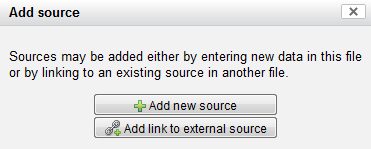
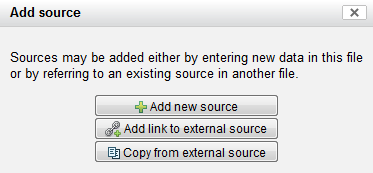
Added missing space between repository name and shelf mark in HTML mode; Updated manual to include information on copying sources from other files.
git-svn-id: svn+ssh://code-01.kb.dk/home/svn/repos/xml-store-v2@658 3c7ca1a1-f336-440e-b0c8-27b7de15a481

diff --git a/trunk/mermeid/manual/tutorial_external_sources.html b/trunk/mermeid/manual/tutorial_external_sources.html
@@ -1,79 +1,87 @@
 <!DOCTYPE HTML PUBLIC "-//W3C//DTD HTML 4.01 Transitional//EN">
 <html xmlns="http://www.w3.org/1999/xhtml"><head>
-<meta http-equiv="content-type" content="text/html; charset=utf-8"><title>MerMEId manual – External Sources</title>
-
-<link href="../style/tab_style.css" rel="stylesheet" type="text/css">
-<link href="../style/list_style.css" rel="stylesheet" type="text/css">
-<link href="../style/front_page.css" rel="stylesheet" type="text/css">
-<link href="../style/manual.css" rel="stylesheet" type="text/css">
+  <meta http-equiv="content-type" content="text/html; charset=utf-8"><title>MerMEId manual – External Sources</title>
+    
+    <link href="../style/tab_style.css" rel="stylesheet" type="text/css">
+      <link href="../style/list_style.css" rel="stylesheet" type="text/css">
+        <link href="../style/front_page.css" rel="stylesheet" type="text/css">
+          <link href="../style/manual.css" rel="stylesheet" type="text/css">
 </head>
-
+  
   <body>
-<div class="main">
-<div class="manual_header">
-<div class="close_div"> <a href="javascript:window.close();" class="trigger"><img alt="Close" title="Close" src="../images/close.gif" height="12" width="12"></a></div>
-  <img alt="MerMEId" src="../images/mermeid_30px_inv.png" height="23" width="130"> </div>
-<div class="toclink"><a href="index.html">Back
-to table of contents</a></div>
-<h2>Using external sources</h2>
-<p>A source shared by a number of files does not have to be
-described in each file, duplicating the information about it. Instead,
-the source description in one file may be retrieved by other files.</p>
-<p><img src="../images/manual/external_source.png" alt="Using an external source"></p>
-<p>In the above example, the works X and Y, located in separate
-files, are sharing the source C. Work X, however, only has a
-placeholder for the source C, retrieving the actual source description
-from work Y. <br>
-Assuming that you already have the source description you want to link
-to (i.e. work Y in the example above), follow these steps to indicate
-that source information for work X is to be retrieved from an external
-file: </p>
-<ul>
-<li>Create or open for editing the work that will be using the
-external source (i.e. work X in the example)</li>
-<li>At the <span class="source tab">Source</span>
-tab, create a new source by clicking an existing source's <img src="../images/add.gif" alt="Add"> add button (if
-there are no sources defined yet, you will need to create a regular
-source first, as external source linking is - for now - available only
-from add buttons next to an existing source; this has purely technical
-reasons. Once you have created the external source link, you may delete
-the empty source created first).</li>
-<li>From the menu, choose "Add link to external source"<br>
-<img src="../images/manual/external_source_add.png" alt="Add link" class="illustration"></li>
-<li>This opens the source browser. It lists all works having
-sources. You may limit the number of works displayed by selecting a
-specific file collection (series) or enter search terms such as the
-title. Please note that the file browser may need some time to load and
-to update. </li>
-<li> Click the work that has the desired source description to
-show a list of its sources.<br>
-<img src="../images/manual/external_source_browser.png" alt="Source browser" class="illustration"> </li>
-<li>Click the source you want to link to. This will close the
-source browser. In the list of sources, you will see a "Go to linked
-resource" icon <img src="../images/go_to_link.png" alt="Got to linked resource"> on the source, indicating that
-this is a reference to a source description kept in an external file.
-Clicking it will close the file you are working on and open the file
-containing the link target for editing instead. A warning is displayed
-to remind you that you are about to open another file.<br>
-<img src="../images/manual/external_source_list_view.png" alt="External source as shown in the source list" class="illustration"><br>
-When creating a reference to an external source, a copy of the source's
-title is placed in your file for your information. This title does not
-update automatically if you change the source title in the linked file.
-Therefore, an update button <img src="../images/update.png" alt="Update"> is provided next to the source link's title to
-let you update the title if necessary. </li>
-<li> In the HTML preview, an external source will be displayed
-exactly as if the source description had been entered in the file
-itself. </li>
-</ul>
-<ul class="important">
-<li>Be aware that files using external sources are not entirely
-self-contained, i.e. the source information in your file is dependent
-on having to access the referenced file, and the application using the
-file must be capable of handling this reference in order to retrieve
-all source information.</li>
-</ul>
-</div>
-<p class="footer"><a href="http://www.kb.dk/dcm" title="DCM"><img style="border: 0px none ; vertical-align: middle;" alt="DCM Logo" src="../images/dcm_logo_small.png"></a>
-2013 Danish Centre for Music Publication | The Royal Library,
-Copenhagen | <a name="www.kb.dk" id="www.kb.dk" href="http://www.kb.dk/dcm">www.kb.dk/dcm</a></p>
-</body></html>
+    <div class="main">
+      <div class="manual_header">
+        <div class="close_div"> <a href="javascript:window.close();" class="trigger"><img alt="Close" title="Close" src="../images/close.gif" height="12" width="12"></a></div>
+        <img alt="MerMEId" src="../images/mermeid_30px_inv.png" height="23" width="130"> </div>
+      <div class="toclink"><a href="index.html">Back
+        to table of contents</a></div>
+      <h2>Using external sources – linking to and copying from sources in other files</h2>
+      <h3>Referring to source descriptions in other files</h3>
+      <p>A source shared by a number of files does not have to be
+        described in each file, duplicating the information about it. Instead,
+        the source description in one file may be retrieved by other files.</p>
+      <p><img src="../images/manual/external_source.png" alt="Using an external source"></p>
+      <p>In the above example, the works X and Y, located in separate
+        files, are sharing the source C. Work X, however, only has a
+        placeholder for the source C, retrieving the actual source description
+        from work Y. <br>
+          Assuming that you already have the source description you want to link
+          to (i.e. work Y in the example above), follow these steps to indicate
+          that source information for work X is to be retrieved from an external
+          file: </p>
+      <ul>
+        <li>Create or open for editing the work that will be using the
+          external source (i.e. work X in the example)</li>
+        <li>At the <span class="source tab">Source</span>
+          tab, create a new source by clicking an existing source's <img src="../images/add.gif" alt="Add"> add button (if
+            there are no sources defined yet, you will need to create a regular
+            source first, as external source linking is - for now - available only
+            from add buttons next to an existing source; this has purely technical
+            reasons. Once you have created the external source link, you may delete
+            the empty source created first).</li>
+        <li>From the menu, choose "Add link to external source"<br>
+          <img src="../images/manual/external_source_add.png" alt="Add link" class="illustration"></li>
+        <li>This opens the source browser. It lists all works having
+          sources. You may limit the number of works displayed by selecting a
+          specific file collection (series) or enter search terms such as the
+          title. Please note that the file browser may need some time to load and
+          to update. </li>
+        <li> Click the work that has the desired source description to
+          show a list of its sources.<br>
+            <img src="../images/manual/external_source_browser.png" alt="Source browser" class="illustration"> </li>
+        <li>Click the source you want to link to. This will close the
+          source browser. In the list of sources, you will see a "Go to linked
+          resource" icon <img src="../images/go_to_link.png" alt="Got to linked resource"> on the source, indicating that
+            this is a reference to a source description kept in an external file.
+            Clicking it will close the file you are working on and open the file
+            containing the link target for editing instead. A warning is displayed
+            to remind you that you are about to open another file.<br>
+              <img src="../images/manual/external_source_list_view.png" alt="External source as shown in the source list" class="illustration"><br>
+                When creating a reference to an external source, a copy of the source's
+                title is placed in your file for your information. This title does not
+                update automatically if you change the source title in the linked file.
+                Therefore, an update button <img src="../images/update.png" alt="Update"> is provided next to the source link's title to
+                  let you update the title if necessary. </li>
+        <li> In the HTML preview, an external source will be displayed
+          exactly as if the source description had been entered in the file
+          itself. </li>
+      </ul>
+      <ul class="important">
+        <li>Be aware that files using references to external sources are not entirely
+          self-contained, i.e. the source information in your file is dependent
+          on having to access the referenced file, and the application using the
+          file must be capable of handling this reference in order to retrieve
+          all source information.</li>
+      </ul>
+      <h3>Copying source descriptions from another file</h3>
+      <p>Instead of referring to a source description contained in another file, you may want to copy 
+        the external source description into the current file. This is convenient if you need to change something in the 
+        source description in order to adapt it to the current file. </p>
+      <p>To copy a source, simply choose "Copy from external source" instead of "Add link to external source"
+      from the source adding menu. This places an independent copy of the external source description in your 
+      current file, which can be freely edited.</p>
+    </div>
+    <p class="footer"><a href="http://www.kb.dk/dcm" title="DCM"><img style="border: 0px none ; vertical-align: middle;" alt="DCM Logo" src="../images/dcm_logo_small.png"></a>
+      2013 Danish Centre for Music Publication | The Royal Library,
+      Copenhagen | <a name="www.kb.dk" id="www.kb.dk" href="http://www.kb.dk/dcm">www.kb.dk/dcm</a></p>
+  </body></html>

diff --git a/trunk/mermeid/manual/index.html b/trunk/mermeid/manual/index.html
@@ -33,7 +33,8 @@
         <li><a href="tutorial_versions.html">Works having multiple versions</a></li>
         <li><a href="tutorial_anthology.html">Working with relations: Creating an anthology</a></li>
         <li><a href="tutorial_reprint.html">Adding a reprint edition to a source</a></li>
-        <li><a href="tutorial_external_sources.html">Using external sources</a></li><li><a href="tutorial_bibliography.html">Using standard bibliographies</a></li>
+        <li><a href="tutorial_external_sources.html">Using external sources – linking to and copying from sources in other files</a></li>
+        <li><a href="tutorial_bibliography.html">Using standard bibliographies</a></li>
       </ul>
       
       <h3>Technical documentation</h3>
